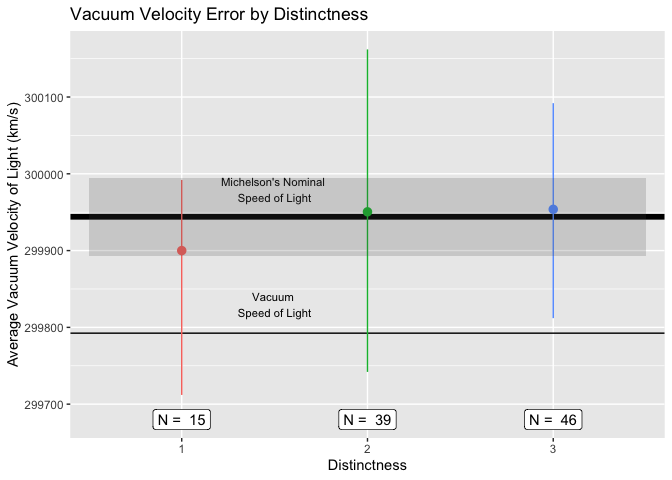
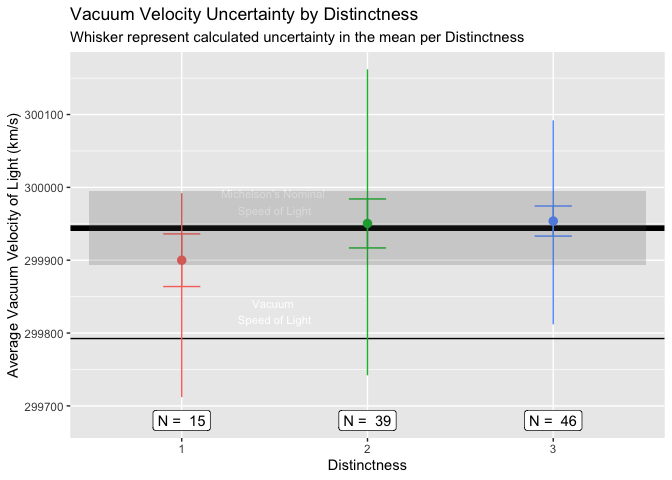
velocity vs pressure plot

diff --git a/challenges/c02-michelson-assignment.md b/challenges/c02-michelson-assignment.md
@@ -270,11 +270,23 @@ df_error <- df_q2 %>%
     count = n(),
     avg = mean(VelocityVacuum), 
     max = max(VelocityVacuum), 
-    min = min(VelocityVacuum)
+    min = min(VelocityVacuum),
+    mean_uncertainty = (max-min)/(2*sqrt(count))
     )
 ```
 
     ## `summarise()` ungrouping output (override with `.groups` argument)
+
+``` r
+df_error
+```
+
+    ## # A tibble: 3 x 6
+    ##   Distinctness count     avg    max    min mean_uncertainty
+    ##   <fct>        <int>   <dbl>  <dbl>  <dbl>            <dbl>
+    ## 1 1               15 299900  299992 299712             36.1
+    ## 2 2               39 299950. 300162 299742             33.6
+    ## 3 3               46 299954. 300092 299812             20.6
 
 ``` r
 dat_text <- data.frame(
@@ -336,23 +348,12 @@ plot2
 ``` r
 plot3 <- df_q2 %>% 
   ggplot() +
-  geom_density2d(
-    aes(x = Temp, 
-        y = Velocity, 
-        color = Distinctness)
-    ) +
+  geom_density2d_filled(aes(x = Temp,y = Velocity), alpha = 0.5) +
+  geom_density2d(aes(x = Temp,y = Velocity),color = "black") +
   facet_grid(Distinctness~.) +
-  geom_hline(yintercept = LIGHTSPEED_VACUUM) +
-  annotate("text", 
-           x = 65, 
-           y = 299850, 
-           label = c("Vacuum \nSpeed of Light"), 
-           size = 3) +
-theme(
-    legend.position = "NONE",
-  )
+  geom_hline(yintercept = LIGHTSPEED_VACUUM, color = "black", size = 2)
 
-plot3
+plot3 + labs(title = "Density of Velocity of Light (measured but not corrected) vs Temperature", subtitle = "True Vacuum Velocity of Light denoted with a white horizontal line", x = "Velocity (km/s)", y = "Temperature (degrees C)")
 ```
 
 ![](c02-michelson-assignment_files/figure-gfm/q4-task-3.png)<!-- -->
@@ -366,7 +367,7 @@ plot4 <-  df_q2 %>%
   geom_hline(yintercept = LIGHTSPEED_MICHELSON-LIGHTSPEED_PM, size = 2, linetype = 3) +
   geom_boxplot(aes(x = Distinctness, y = VelocityVacuum, color = Distinctness)) 
   
-plot4
+plot4 
 ```
 
 ![](c02-michelson-assignment_files/figure-gfm/q4-task-4.png)<!-- -->
@@ -384,6 +385,14 @@ plot5 <- df_error %>%
         color = Distinctness
         ), 
     width = 0.2) +
+   geom_errorbar(
+    aes(x = Distinctness, 
+        y = avg, 
+        ymin = avg-mean_uncertainty, 
+        ymax = avg+mean_uncertainty, 
+        color = Distinctness
+        ), 
+    width = 0.2) +
   geom_label(
     aes(x = Distinctness, 
         y = 299680, 
@@ -397,12 +406,14 @@ plot5 <- df_error %>%
            x = 1.5, 
            y = 299830, 
            label = c("Vacuum \nSpeed of Light"), 
-           size = 3) +
+           size = 3,
+           color = "white") +
     annotate("text", 
            x = 1.5, 
            y = 299980, 
            label = c("Michelson's Nominal \nSpeed of Light"), 
-           size = 3) +
+           size = 3,
+           color = "white") +
   annotate("rect", 
            xmin = 0.5, 
            xmax = 3.5, 
@@ -416,7 +427,7 @@ plot5 <- df_error %>%
     ## Warning: Ignoring unknown parameters: width
 
 ``` r
-plot5 + labs(title = "Vacuum Velocity Error by Distinctness", y = "Average Vacuum Velocity of Light (km/s)")
+plot5 + labs(title = "Vacuum Velocity Uncertainty by Distinctness", y = "Average Vacuum Velocity of Light (km/s)", subtitle = "Whisker represent calculated uncertainty in the mean per Distinctness")
 ```
 
 ![](c02-michelson-assignment_files/figure-gfm/q4-task-5.png)<!-- -->
